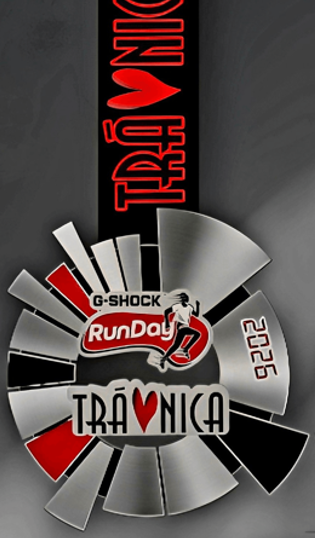
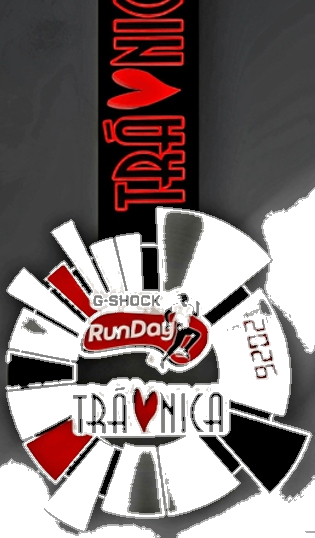
Add files via upload

diff --git a/style.css b/style.css
@@ -1313,19 +1313,16 @@ font-size: 1.5rem;
 }
 
 .hero-medal {
-  height: 95px;
+  height: 80px;
   width: auto;
   border-radius: 0 !important;
   /* Radial mask — stred ostrý, okraje sa plynule strácajú do pozadia */
-  -webkit-mask-image: radial-gradient(ellipse 75% 80% at center, black 30%, transparent 75%);
-  mask-image: radial-gradient(ellipse 75% 80% at center, black 30%, transparent 75%);
-  /* Blur na okrajoch pre extra jemnosť */
-  filter: blur(0px) drop-shadow(0 2px 8px rgba(0,0,0,0.3));
+  filter: drop-shadow(0 4px 16px rgba(0,0,0,0.6));
 }
 
 @media (max-width: 768px) {
   .hero-medal {
-    height: 70px;
+    height: 60px;
   }
 }
 
